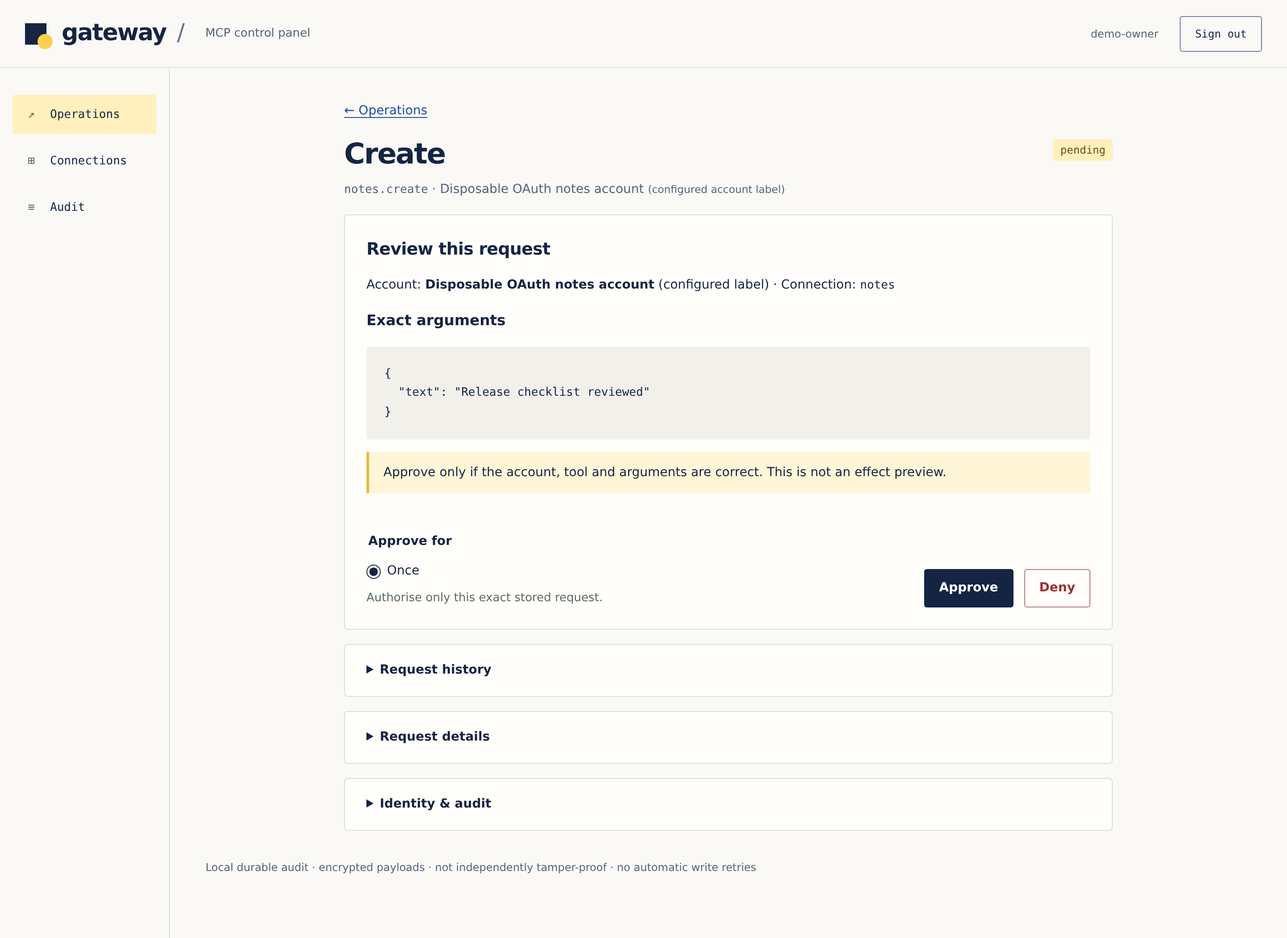
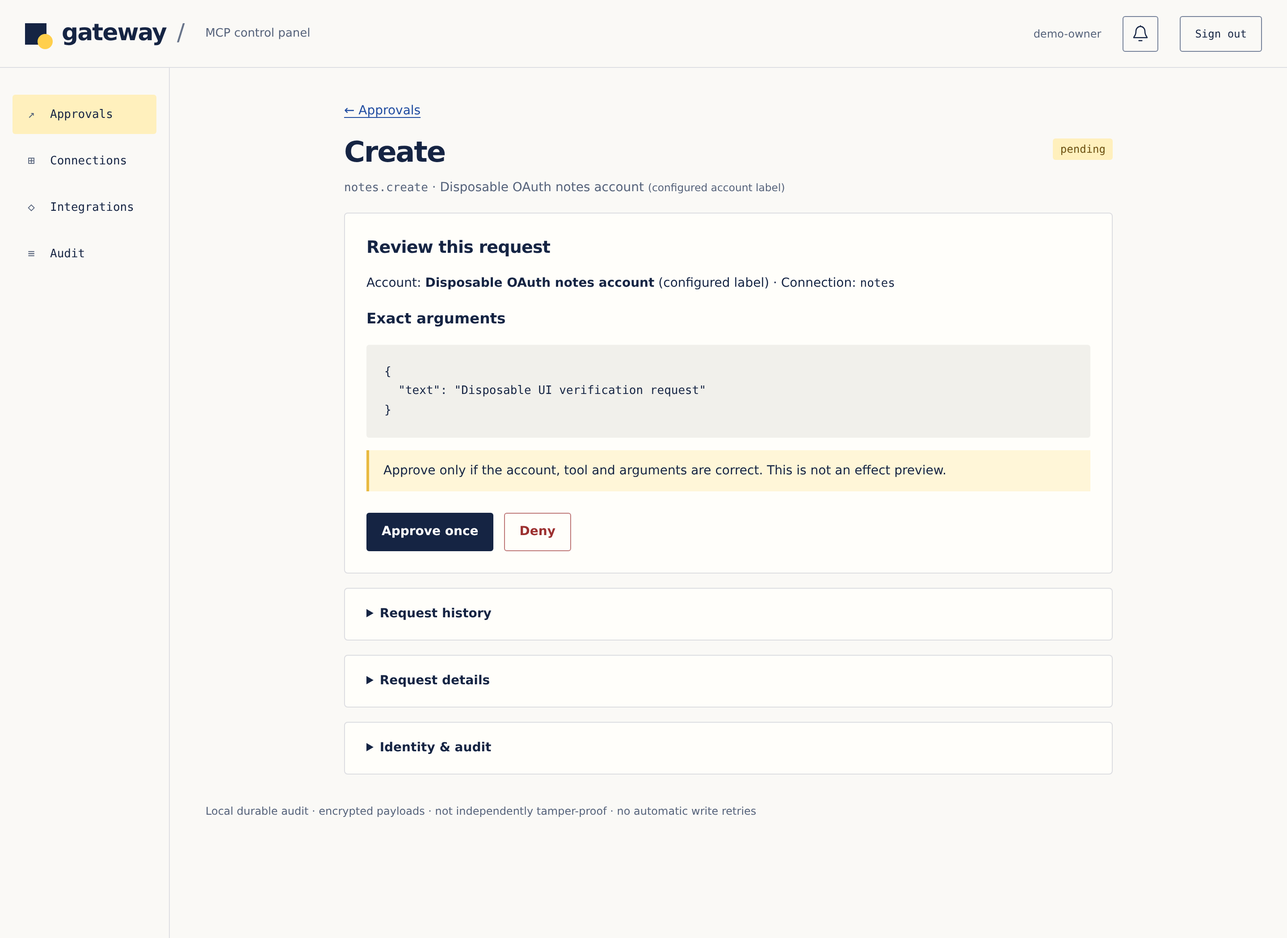
Make Audit the operation history (#59)
Rename the action-focused Operations area to Approvals and move completed and active request discovery to Audit. Add an all-time In progress filter and latest transition timestamps so queued and running work remains visible.

Amp-Thread-ID: https://ampcode.com/threads/T-01a0ff94-51a7-7188-b728-37bed6b5d05e

diff --git a/internal/gateway/audit.html b/internal/gateway/audit.html
@@ -6,11 +6,11 @@
       <label class="search">Search requests<input type="search" name="q" value="{{.Filter.Query}}" placeholder="Tool name or request ID" maxlength="256"></label>
       <label>Requested within<select name="period"><option value="24h" {{if eq .Period "24h"}}selected{{end}}>Last 24 hours</option><option value="7d" {{if eq .Period "7d"}}selected{{end}}>Last 7 days</option><option value="all" {{if eq .Period "all"}}selected{{end}}>All time</option></select></label>
       <label>Connection<input name="connection" list="audit-connections" value="{{.Filter.Connection}}" placeholder="All connections" maxlength="256"><datalist id="audit-connections">{{range .Connections}}<option value="{{.ID}}">{{.Account}}</option>{{end}}</datalist></label>
-      <label>Outcome<select name="outcome"><option value="">All outcomes</option>{{range $value := .Outcomes}}<option value="{{$value}}" {{if eq $.Filter.Outcome $value}}selected{{end}}>{{if eq $value "investigate"}}Needs investigation{{else}}{{status $value}}{{end}}</option>{{end}}</select></label>
+      <label>Outcome<select name="outcome"><option value="">All outcomes</option>{{range $value := .Outcomes}}<option value="{{$value}}" {{if eq $.Filter.Outcome $value}}selected{{end}}>{{if eq $value "active"}}In progress{{else if eq $value "investigate"}}Needs investigation{{else}}{{status $value}}{{end}}</option>{{end}}</select></label>
       <label>Timezone<select name="zone"><option value="Australia/Melbourne" {{if eq .Zone "Australia/Melbourne"}}selected{{end}}>Melbourne</option><option value="UTC" {{if eq .Zone "UTC"}}selected{{end}}>UTC</option></select></label>
       <button class="primary">Apply filters</button>
     </div>
-    <div class="filter-footer"><div class="chips" aria-label="Quick outcome filters"><button name="preset" value="all" aria-pressed="{{eq .Filter.Outcome ""}}">All</button><button name="preset" value="investigate" aria-pressed="{{eq .Filter.Outcome "investigate"}}">Needs investigation</button><button name="preset" value="denied" aria-pressed="{{eq .Filter.Outcome "denied"}}">Denied</button></div><a href="/audit">Clear filters</a></div>
+    <div class="filter-footer"><div class="chips" aria-label="Quick outcome filters"><button name="preset" value="all" aria-pressed="{{eq .Filter.Outcome ""}}">All</button><button name="preset" value="active" aria-pressed="{{eq .Filter.Outcome "active"}}">In progress</button><button name="preset" value="investigate" aria-pressed="{{eq .Filter.Outcome "investigate"}}">Needs investigation</button><button name="preset" value="denied" aria-pressed="{{eq .Filter.Outcome "denied"}}">Denied</button></div><a href="/audit">Clear filters</a></div>
   </form>
   <div id="audit-live" data-live hx-get="{{.Current}}" hx-trigger="live-update from:body queue:last">{{template "audit-requests" .}}</div>
   <p class="help live-error" role="alert" hidden></p>
@@ -20,11 +20,11 @@
 {{define "audit-requests"}}
   <div class="list-meta"><span>{{len .Requests}} requests on this page · newest requested first</span><span>{{.Zone}} · through <time datetime="{{iso .Filter.Until}}">{{stamp .Filter.Until .Zone}}</time></span></div>
   <section class="requests" aria-label="Request history">
-    <div class="columns" aria-hidden="true"><span></span><span>Requested</span><span>Tool / request</span><span>Connection / account</span><span class="requester">Requested by</span><span>Outcome</span></div>
+    <div class="columns" aria-hidden="true"><span></span><span>Requested / updated</span><span>Tool / request</span><span>Connection / account</span><span class="requester">Requested by</span><span>Outcome</span></div>
     {{range .Requests}}{{$op := .Operation}}
     <details class="audit-entry" data-request-id="{{$op.ID}}">
       <summary>
-        <span class="when"><time datetime="{{iso $op.Created}}">{{stamp $op.Created $.Zone}}</time></span>
+        <span class="when"><time datetime="{{iso $op.Created}}">{{stamp $op.Created $.Zone}}</time>{{with updated .Events}}<span class="secondary">Updated <time datetime="{{iso .}}">{{stamp . $.Zone}}</time></span>{{end}}</span>
         <span class="request-tool tool">{{$op.Tool}}<span class="secondary request-id" title="{{$op.ID}}">{{$op.ID}}</span></span>
         <span class="request-connection">{{$op.Connection}}<span class="secondary">{{$op.Account}}</span></span>
         <span class="requester">{{if $op.AmpUserID}}Amp caller<span class="secondary">Verified user</span>{{else}}{{actor $op.Subject $.Owner}}<span class="secondary">Token identity</span>{{end}}</span>

diff --git a/internal/gateway/page.go b/internal/gateway/page.go
@@ -30,11 +30,11 @@ var page = template.Must(template.New("page").Funcs(auditTemplateFuncs).Parse(au
 </div>{{end}}{{end}}
 {{define "operation-history"}}<details id="operation-history" class="card"><summary id="operation-history-summary">Request history</summary><div class="scroll"><table><thead><tr><th>Sequence</th><th>Transition</th><th>Actor</th></tr></thead><tbody>{{range .Events}}<tr><td>{{.Sequence}}</td><td>{{.Kind}}</td><td>{{.Actor}}</td></tr>{{else}}<tr><td colspan="3">No events yet.</td></tr>{{end}}</tbody></table></div></details>{{end}}
 <!doctype html>
-<html lang="en" class="dashboard"><head><meta charset="utf-8"><meta name="viewport" content="width=device-width,initial-scale=1"><meta name="htmx-config" content='{"historyCacheSize":0,"allowEval":false,"allowScriptTags":false,"selfRequestsOnly":true,"timeout":30000}'><script src="/assets/htmx-2.0.8.min.js" defer></script><script src="/assets/notifications.js" defer></script><script src="/assets/live.js" defer></script><title>Amp MCP Gateway · {{if .Operation}}Request review{{else if or .Connection .AddConnection .PolicyProposal (eq .Section "connections")}}Connections{{else if or .FlyIntegration (eq .Section "integrations")}}Integrations{{else if eq .Section "audit"}}Audit{{else}}Operations{{end}}</title><link rel="stylesheet" href="/assets/ui.css"></head><body><a class="skip" href="#main">Skip to content</a><header class="topbar"><a class="brand" href="/operations"><span class="brand-mark" aria-hidden="true"></span>gateway<span class="brand-slash" aria-hidden="true">/</span></a><span class="product-name">MCP control panel</span><small class="owner">{{.Owner}}</small>
+<html lang="en" class="dashboard"><head><meta charset="utf-8"><meta name="viewport" content="width=device-width,initial-scale=1"><meta name="htmx-config" content='{"historyCacheSize":0,"allowEval":false,"allowScriptTags":false,"selfRequestsOnly":true,"timeout":30000}'><script src="/assets/htmx-2.0.8.min.js" defer></script><script src="/assets/notifications.js" defer></script><script src="/assets/live.js" defer></script><title>Amp MCP Gateway · {{if .Operation}}Request review{{else if or .Connection .AddConnection .PolicyProposal (eq .Section "connections")}}Connections{{else if or .FlyIntegration (eq .Section "integrations")}}Integrations{{else if eq .Section "audit"}}Audit{{else}}Approvals{{end}}</title><link rel="stylesheet" href="/assets/ui.css"></head><body><a class="skip" href="#main">Skip to content</a><header class="topbar"><a class="brand" href="/operations"><span class="brand-mark" aria-hidden="true"></span>gateway<span class="brand-slash" aria-hidden="true">/</span></a><span class="product-name">MCP control panel</span><small class="owner">{{.Owner}}</small>
 <button id="notification-menu" class="notification-trigger" type="button" popovertarget="notification-panel" aria-label="Approval notifications" title="Approval notifications" hidden><svg viewBox="0 0 24 24" fill="none" stroke="currentColor" stroke-width="1.5" stroke-linecap="round" stroke-linejoin="round" aria-hidden="true"><path d="M18 8a6 6 0 0 0-12 0c0 7-3 7-3 9h18c0-2-3-2-3-9M10 21h4M12 2V1"/></svg></button>
 <section id="notification-panel" class="notification-panel" popover role="dialog" aria-labelledby="notification-heading" tabindex="-1" autofocus><h2 id="notification-heading">Approval notifications</h2><p id="notification-status" class="help" role="status"></p><button id="approval-notifications" type="button" aria-pressed="false" aria-describedby="notification-status">Enable notifications</button><p class="help notification-error" role="alert" hidden></p></section>
 <form method="post" action="/logout"><button>Sign out</button></form></header>
-<div class="shell"><aside class="sidebar"><nav aria-label="Main navigation"><a href="/operations" {{if or .Operation (eq .Section "operations") (eq .Section "approval-grants")}}aria-current="page"{{end}}><span class="nav-symbol" aria-hidden="true">↗</span>Operations</a><a href="/connections" {{if or .Connection .AddConnection .PolicyProposal (eq .Section "connections")}}aria-current="page"{{end}}><span class="nav-symbol" aria-hidden="true">⊞</span>Connections</a><a href="/integrations" {{if or .FlyIntegration (eq .Section "integrations")}}aria-current="page"{{end}}><span class="nav-symbol" aria-hidden="true">◇</span>Integrations</a><a href="/audit" {{if eq .Section "audit"}}aria-current="page"{{end}}><span class="nav-symbol" aria-hidden="true">≡</span>Audit</a></nav>
+<div class="shell"><aside class="sidebar"><nav aria-label="Main navigation"><a href="/operations" {{if or (and .Operation (eq .Operation.Status "pending")) (eq .Section "operations") (eq .Section "approval-grants")}}aria-current="page"{{end}}><span class="nav-symbol" aria-hidden="true">↗</span>Approvals</a><a href="/connections" {{if or .Connection .AddConnection .PolicyProposal (eq .Section "connections")}}aria-current="page"{{end}}><span class="nav-symbol" aria-hidden="true">⊞</span>Connections</a><a href="/integrations" {{if or .FlyIntegration (eq .Section "integrations")}}aria-current="page"{{end}}><span class="nav-symbol" aria-hidden="true">◇</span>Integrations</a><a href="/audit" {{if or (eq .Section "audit") (and .Operation (ne .Operation.Status "pending"))}}aria-current="page"{{end}}><span class="nav-symbol" aria-hidden="true">≡</span>Audit</a></nav>
 <div id="notification-feed" hidden hx-get="/notifications" hx-trigger="approval-update queue:last"></div>
 </aside><main id="main">
 {{if .FlyIntegration}}
@@ -196,7 +196,7 @@ var page = template.Must(template.New("page").Funcs(auditTemplateFuncs).Parse(au
 {{else}}
 {{if .Operation}}{{with .Operation}}
 <section class="operation">
-<a href="/operations">← Operations</a><div class="heading"><h1>{{$.Title}}</h1>{{if eq .Status "pending"}}<span class="badge {{.Status}}" role="status">{{.Status}}</span>{{end}}</div>
+{{if eq .Status "pending"}}<a href="/operations">← Approvals</a>{{else}}<a href="/audit">← Audit</a>{{end}}<div class="heading"><h1>{{$.Title}}</h1>{{if eq .Status "pending"}}<span class="badge {{.Status}}" role="status">{{.Status}}</span>{{end}}</div>
 <p class="sub"><code>{{.Tool}}</code> · {{.Account}} <small>(configured account label)</small></p>
 {{if .AmpThreadID}}<p class="attribution"><a href="https://ampcode.com/threads/{{.AmpThreadID}}">Open Amp thread ↗</a> · Amp identity verified. Not human approval or model attestation.</p>{{end}}
 {{if eq .Status "pending"}}<div class="card"><h2>Review this request</h2><p>Account: <strong>{{.Account}}</strong> (configured label) · Connection: <code>{{.Connection}}</code></p>
@@ -246,7 +246,7 @@ var page = template.Must(template.New("page").Funcs(auditTemplateFuncs).Parse(au
 {{template "connection-health" .}}
 <a class="button" href="/connections/{{.ID}}/tools">Manage tools</a></div>{{else}}<div class="empty"><h2>No connections yet</h2><p>Add a server, connect credentials, then review its tools.</p></div>{{end}}</div>
 {{else if eq .Section "audit"}}{{if .RawAudit}}<div class="heading"><h1>Raw audit events</h1><a href="/audit">← Request history</a></div><p class="sub">The latest 200 events, including configuration changes. Newest first · {{.Zone}}.</p><div id="audit-live" class="card scroll" data-live hx-get="{{.Current}}" hx-trigger="live-update from:body queue:last">{{template "audit-list" .}}</div><p class="help live-error" role="alert" hidden></p>{{else}}{{template "audit-history" .}}{{end}}
-{{else}}<h1>Operations</h1><p class="sub">Review requests, inspect results and manage standing approvals.</p><nav class="tabs" aria-label="Operation views"><a href="/operations" {{if and (ne .Section "approval-grants") (not .AllOperations)}}aria-current="page"{{end}}>Needs approval</a><a href="/operations?view=all" {{if .AllOperations}}aria-current="page"{{end}}>All operations</a><a href="/approval-grants" {{if eq .Section "approval-grants"}}aria-current="page"{{end}}>Standing approvals</a></nav>
+{{else}}<h1>Approvals</h1><p class="sub">Review requests and manage standing approvals.</p><nav class="tabs" aria-label="Approval views"><a href="/operations" {{if ne .Section "approval-grants"}}aria-current="page"{{end}}>Needs approval</a><a href="/approval-grants" {{if eq .Section "approval-grants"}}aria-current="page"{{end}}>Standing approvals</a></nav>
 {{if eq .Section "approval-grants"}}<h2>Standing approvals</h2><p class="sub">Saved approvals allow matching calls until they expire or you revoke them. Expiry or revocation stops queued calls, but cannot cancel directly approved requests or calls already running.</p>
 <div class="card scroll">{{if .ApprovalGrants}}<table class="approval-grants"><thead><tr><th>Allowed calls</th><th>Connection</th><th>Scope</th><th>Amp context</th><th>Expiry</th><th></th></tr></thead><tbody>
 {{range .ApprovalGrants}}<tr><td>{{if eq .Breadth "exact"}}Same tool + same arguments<br><code>{{.Tool}}</code><br><a href="/operations/{{.OperationID}}">View exact request</a>{{else if eq .Breadth "connection"}}All tools{{else}}Tool + any arguments<br><code>{{.Tool}}</code>{{end}}</td>
@@ -254,8 +254,8 @@ var page = template.Must(template.New("page").Funcs(auditTemplateFuncs).Parse(au
 <td>{{if eq .Scope "thread"}}<a href="https://ampcode.com/threads/{{.AmpThreadID}}">{{.AmpThreadID}}</a>{{else}}Project <code>{{.AmpProjectID}}</code>{{if .AmpWorkspaceID}}<br><small>Workspace <code>{{.AmpWorkspaceID}}</code></small>{{end}}{{end}}</td>
 <td>{{if eq .Expiry "never"}}Until revoked{{else}}{{.Expires.UTC.Format "2006-01-02 15:04:05 UTC"}}{{end}}</td><td><form method="post" action="/approval-grants/{{.ID}}/revoke"><button class="danger">Revoke</button></form></td></tr>{{end}}
 </tbody></table>{{else}}<p class="sub">No standing approvals. Approvals you remember during request review appear here.</p>{{end}}</div>
-{{else}}<div id="operations-live" class="card scroll" data-live hx-get="/operations{{if .AllOperations}}?view=all{{end}}" hx-trigger="live-update from:body queue:last">{{template "operations-list" .}}</div><p class="help live-error" role="alert" hidden></p>{{end}}{{end}}
+{{else}}<div id="operations-live" class="card scroll" data-live hx-get="/operations" hx-trigger="live-update from:body queue:last">{{template "operations-list" .}}</div><p class="help live-error" role="alert" hidden></p>{{end}}{{end}}
 {{end}}<footer>Local durable audit · encrypted payloads · not independently tamper-proof · no automatic write retries</footer></main></div>
 </body></html>
 {{- define "audit-list"}}<table class="audit-list"><thead><tr><th>Time</th><th>Sequence</th><th>Operation</th><th>Transition</th><th>Actor</th></tr></thead><tbody>{{range .Events}}<tr><td><time datetime="{{iso .Time}}">{{stamp .Time $.Zone}}</time></td><td>{{.Sequence}}</td><td>{{if .Operation}}<a href="/operations/{{.Operation}}">{{.Operation}}</a>{{else}}—{{end}}</td><td>{{.Kind}}</td><td>{{.Actor}}</td></tr>{{else}}<tr><td colspan="5">No events yet.</td></tr>{{end}}</tbody></table>{{end}}
-{{- define "operations-list"}}{{if .Operations}}<table class="operation-list"><thead><tr><th>Request</th><th>Account</th><th>Status</th><th></th></tr></thead><tbody>{{range .Operations}}<tr><td><strong>{{.Tool}}</strong><span class="request-id">{{.ID}}</span></td><td>{{.Account}}</td><td><span class="badge {{.Status}}">{{.Status}}</span></td><td><a href="/operations/{{.ID}}">{{if eq .Status "pending"}}Review{{else}}View{{end}}<span class="visually-hidden"> {{.ID}}</span> →</a></td></tr>{{end}}</tbody></table><p class="help">Showing up to 100 most recent {{if not .AllOperations}}pending {{end}}requests.</p>{{else}}<div class="empty"><h2>{{if .AllOperations}}No operations yet{{else}}Nothing needs your approval{{end}}</h2><p>{{if .AllOperations}}Connect an MCP client and use find_tools, then call_tools.{{else}}New requests that require approval will appear here.{{end}}</p></div>{{end}}{{end}}`))
+{{- define "operations-list"}}{{if .Operations}}<table class="operation-list"><thead><tr><th>Request</th><th>Account</th><th>Status</th><th></th></tr></thead><tbody>{{range .Operations}}<tr><td><strong>{{.Tool}}</strong><span class="request-id">{{.ID}}</span></td><td>{{.Account}}</td><td><span class="badge {{.Status}}">{{.Status}}</span></td><td><a href="/operations/{{.ID}}">Review<span class="visually-hidden"> {{.ID}}</span> →</a></td></tr>{{end}}</tbody></table><p class="help">Showing up to 100 most recent pending requests.</p>{{else}}<div class="empty"><h2>Nothing needs your approval</h2><p>New requests that require approval will appear here.</p></div>{{end}}{{end}}`))

diff --git a/internal/browserbridge/browserbridge.go b/internal/browserbridge/browserbridge.go
@@ -576,7 +576,7 @@ func (m *Manager) render(w http.ResponseWriter, data browserPageData) {
 }
 
 var browserPage = template.Must(template.New("browser").Parse(`<!doctype html>
-<html lang="en" class="chrome"><head><meta charset="utf-8"><meta name="viewport" content="width=device-width,initial-scale=1"><title>Amp MCP Gateway · Chrome</title><link rel="stylesheet" href="/assets/ui.css"></head><body><a class="skip" href="#main">Skip to content</a><header class="topbar"><a class="brand" href="/operations"><span class="brand-mark" aria-hidden="true"></span>gateway<span class="brand-slash" aria-hidden="true">/</span></a><span class="product-name">MCP control panel</span><form method="post" action="/logout"><button>Sign out</button></form></header><div class="shell"><aside class="sidebar"><nav aria-label="Main navigation"><a href="/operations"><span class="nav-symbol" aria-hidden="true">↗</span>Operations</a><a href="/connections"><span class="nav-symbol" aria-hidden="true">⊞</span>Connections</a><a href="/integrations" aria-current="page"><span class="nav-symbol" aria-hidden="true">◇</span>Integrations</a><a href="/audit"><span class="nav-symbol" aria-hidden="true">≡</span>Audit</a></nav></aside><main id="main"><a href="/integrations">← Integrations</a><h1>Chrome</h1><p class="sub">Pair one explicitly selected tab with the gateway. The extension connects outbound, and you can disconnect it here at any time.</p>
+<html lang="en" class="chrome"><head><meta charset="utf-8"><meta name="viewport" content="width=device-width,initial-scale=1"><title>Amp MCP Gateway · Chrome</title><link rel="stylesheet" href="/assets/ui.css"></head><body><a class="skip" href="#main">Skip to content</a><header class="topbar"><a class="brand" href="/operations"><span class="brand-mark" aria-hidden="true"></span>gateway<span class="brand-slash" aria-hidden="true">/</span></a><span class="product-name">MCP control panel</span><form method="post" action="/logout"><button>Sign out</button></form></header><div class="shell"><aside class="sidebar"><nav aria-label="Main navigation"><a href="/operations"><span class="nav-symbol" aria-hidden="true">↗</span>Approvals</a><a href="/connections"><span class="nav-symbol" aria-hidden="true">⊞</span>Connections</a><a href="/integrations" aria-current="page"><span class="nav-symbol" aria-hidden="true">◇</span>Integrations</a><a href="/audit"><span class="nav-symbol" aria-hidden="true">≡</span>Audit</a></nav></aside><main id="main"><a href="/integrations">← Integrations</a><h1>Chrome</h1><p class="sub">Pair one explicitly selected tab with the gateway. The extension connects outbound, and you can disconnect it here at any time.</p>
 {{if .PairingCode}}<div class="card"><h2>Pair the extension</h2><strong>Gateway URL</strong><code class="code">{{.GatewayURL}}</code><strong>Pairing code for {{.PairingConnection}}</strong><code class="code">{{.PairingCode}}</code><p class="sub">Paste both values into the extension. The code expires in ten minutes if unused and is shown only on this page.</p></div>{{end}}
 {{if .Error}}<p role="alert">{{.Error}}</p>{{end}}{{range .Connections}}<div class="card" data-browser-connection="{{.ID}}" data-browser-state="{{if .Connected}}connected{{else if .Paired}}offline{{else}}not-paired{{end}}"><div class="row"><div><strong>{{.Account}}</strong><p><code>{{.ID}}</code> · {{if .Connected}}<span class="badge connected">connected</span>{{else if .Paired}}<span class="badge">offline</span>{{else}}<span class="badge">not paired</span>{{end}}</p>{{if .TabTitle}}<p class="sub">{{.TabTitle}}<br><span class="url">{{.TabURL}}</span></p>{{end}}</div>{{if or .Paired .Connected}}<form method="post" action="/integrations/chrome/revoke"><input type="hidden" name="connection" value="{{.ID}}"><button class="danger">Disconnect</button></form>{{else}}<form method="post" action="/integrations/chrome/pair"><input type="hidden" name="connection" value="{{.ID}}"><button>Create pairing code</button></form>{{end}}</div></div>{{else}}<div class="card"><h2>Enable Chrome</h2><p class="sub">Add the governed browser tools to this gateway. Viewing is allowed directly; click, type and navigation require approval.</p><form method="post" action="/integrations/chrome/enable"><button>Enable Chrome</button></form></div>{{end}}
 <footer>One explicitly selected HTTP(S) tab · outbound extension connection · revocable at any time</footer></main></div><script>

diff --git a/internal/gateway/pages_test.go b/internal/gateway/pages_test.go
@@ -17,7 +17,6 @@ func TestFocusedPages(t *testing.T) {
 	h, cookie := adminUI(t, g, m)
 	for _, tc := range []struct{ path, want, absent string }{
 		{"/operations", "Nothing needs your approval", "Add MCP"},
-		{"/operations?view=all", "No operations yet", "Add MCP"},
 		{"/integrations", "Fly.io", "Nothing needs your approval"},
 		{"/integrations/fly", "Connect Fly.io", "Nothing needs your approval"},
 		{"/connections", "Add MCP", "Nothing needs your approval"},
@@ -42,6 +41,9 @@ func TestFocusedPages(t *testing.T) {
 	if w := formRequest(h, cookie, "GET", "/", nil); w.Code != 303 || w.Header().Get("Location") != "/operations" {
 		t.Fatal("home did not redirect to operations")
 	}
+	if w := formRequest(h, cookie, "GET", "/operations?view=all", nil); w.Code != 303 || w.Header().Get("Location") != "/audit" {
+		t.Fatal("retired all-operations view did not redirect to audit")
+	}
 	if w := formRequest(h, cookie, "GET", "/connections/missing/settings", nil); w.Code != 404 {
 		t.Fatal("missing connection did not return 404")
 	}
@@ -65,12 +67,11 @@ func TestFocusedPages(t *testing.T) {
 		t.Fatal("could not deny request")
 	}
 	pending := formRequest(h, cookie, "GET", "/operations", nil).Body.String()
-	all := formRequest(h, cookie, "GET", "/operations?view=all", nil).Body.String()
-	if strings.Contains(pending, first.ID) || !strings.Contains(pending, second.ID) || !strings.Contains(all, first.ID) || strings.Contains(all, "private-argument") {
-		t.Fatal("operation views did not filter or exposed payloads")
+	if strings.Contains(pending, first.ID) || !strings.Contains(pending, second.ID) || strings.Contains(pending, "All operations") || strings.Contains(pending, "private-argument") {
+		t.Fatal("approvals view did not filter or exposed payloads")
 	}
 	review := formRequest(h, cookie, "GET", "/operations/"+first.ID, nil).Body.String()
-	if !strings.Contains(review, `href="/operations/`+second.ID+`">Review next request`) || !strings.Contains(review, "Request history") || !strings.Contains(review, "<td>denied</td>") {
+	if !strings.Contains(review, `href="/operations/`+second.ID+`">Review next request`) || !strings.Contains(review, `href="/audit" aria-current="page"`) || !strings.Contains(review, `href="/audit">← Audit`) || !strings.Contains(review, "Request history") || !strings.Contains(review, "<td>denied</td>") {
 		t.Fatal("review lost the next request or request history")
 	}
 	if strings.Count(review, "<td>pending</td>") != 1 {
@@ -83,6 +84,9 @@ func TestFocusedPages(t *testing.T) {
 		t.Fatal(err)
 	}
 	rememberReview := formRequest(h, cookie, "GET", "/operations/"+remembered.ID, nil).Body.String()
+	if !strings.Contains(rememberReview, `href="/operations" aria-current="page"`) || !strings.Contains(rememberReview, `href="/operations">← Approvals`) {
+		t.Fatal("pending request did not return to approvals")
+	}
 	for _, want := range []string{`name="remember" value="on"`, `name="breadth"`, `value="exact"`, `value="tool"`, `value="connection"`, `name="scope"`, `value="thread"`, `value="project"`, `name="expiry"`, `value="never"`, `value="1h"`, `value="24h"`, "Same tool + same arguments", "This thread", "Until revoked", "Approve & remember"} {
 		if !strings.Contains(rememberReview, want) {
 			t.Fatalf("remember approval review missing %q", want)

diff --git a/internal/gateway/audit.go b/internal/gateway/audit.go
@@ -22,7 +22,13 @@ var auditTemplateFuncs = template.FuncMap{
 		loc, _ := time.LoadLocation(zone) // Validated before rendering.
 		return time.Unix(epoch, 0).In(loc).Format("02 Jan 2006 · 15:04:05 MST")
 	},
-	"iso":    func(epoch int64) string { return time.Unix(epoch, 0).UTC().Format(time.RFC3339) },
+	"iso": func(epoch int64) string { return time.Unix(epoch, 0).UTC().Format(time.RFC3339) },
+	"updated": func(events []store.Event) int64 {
+		if len(events) == 0 {
+			return 0
+		}
+		return events[len(events)-1].Time
+	},
 	"status": auditStatus,
 	"event":  auditEvent,
 	"actor": func(actor, owner string) string {
@@ -144,6 +150,9 @@ func (g *Gateway) audit(w http.ResponseWriter, r *http.Request) {
 	if period == "" {
 		period = "24h"
 	}
+	if f.Outcome == "active" {
+		period = "all"
+	}
 	if zone == "" {
 		zone = "Australia/Melbourne"
 	}
@@ -181,7 +190,7 @@ func (g *Gateway) audit(w http.ResponseWriter, r *http.Request) {
 		return
 	}
 	switch f.Outcome {
-	case "", "investigate", "pending", "ready", "running", "succeeded", "failed", "unknown", "denied", "expired":
+	case "", "active", "investigate", "pending", "ready", "running", "succeeded", "failed", "unknown", "denied", "expired":
 	default:
 		bad()
 		return
@@ -221,7 +230,7 @@ func (g *Gateway) audit(w http.ResponseWriter, r *http.Request) {
 		"Section":  "audit",
 		"Requests": requests, "Filter": f, "Period": period, "Zone": zone,
 		"Owner": g.cfg.OwnerSubject, "Connections": connections,
-		"Outcomes": []string{"investigate", "pending", "ready", "running", "succeeded", "failed", "unknown", "denied", "expired"},
+		"Outcomes": []string{"active", "investigate", "pending", "ready", "running", "succeeded", "failed", "unknown", "denied", "expired"},
 		"Older":    older, "Latest": latest,
 	})
 }

diff --git a/internal/gateway/live_test.go b/internal/gateway/live_test.go
@@ -74,23 +74,17 @@ func TestLiveOperationsList(t *testing.T) {
 	if err := s.Decide(t.Context(), "rejected-request", "owner", false); err != nil {
 		t.Fatal(err)
 	}
-	for _, all := range []bool{false, true} {
-		path := "/operations"
-		if all {
-			path += "?view=all"
-		}
-		r := httptest.NewRequest("GET", path, nil)
-		r.Header.Set("HX-Request", "true")
-		r.AddCookie(cookie)
-		w := httptest.NewRecorder()
-		h.ServeHTTP(w, r)
-		body := w.Body.String()
-		if w.Code != 200 || !strings.Contains(body, "waiting") || strings.Contains(body, "rejected") != all || strings.Contains(body, "private-argument") || strings.Contains(body, "<html") {
-			t.Fatalf("incorrect operations fragment: %d %s", w.Code, body)
-		}
-		if w.Header().Get("Cache-Control") != "no-store" || w.Header().Get("Vary") != "HX-Request" {
-			t.Fatal("list fragment must not be cached")
-		}
+	r := httptest.NewRequest("GET", "/operations", nil)
+	r.Header.Set("HX-Request", "true")
+	r.AddCookie(cookie)
+	w := httptest.NewRecorder()
+	h.ServeHTTP(w, r)
+	body := w.Body.String()
+	if w.Code != 200 || !strings.Contains(body, "waiting") || strings.Contains(body, "rejected") || strings.Contains(body, "private-argument") || strings.Contains(body, "<html") {
+		t.Fatalf("incorrect approvals fragment: %d %s", w.Code, body)
+	}
+	if w.Header().Get("Cache-Control") != "no-store" || w.Header().Get("Vary") != "HX-Request" {
+		t.Fatal("list fragment must not be cached")
 	}
 }
 

diff --git a/internal/gateway/audit_test.go b/internal/gateway/audit_test.go
@@ -82,6 +82,28 @@ func TestAuditHistoryRenderingAndFilters(t *testing.T) {
 	}
 }
 
+func TestAuditInProgressIncludesOlderQueuedAndRunningRequests(t *testing.T) {
+	g, s, _ := fixture(t)
+	created := time.Now().Add(-48 * time.Hour).Unix()
+	for _, status := range []string{"ready", "running", "succeeded"} {
+		o := store.Operation{ID: "old-" + status, Tool: "notes.write", Connection: "notes", Status: status, Created: created}
+		if _, err := s.Submit(t.Context(), o); err != nil {
+			t.Fatal(err)
+		}
+	}
+	w := httptest.NewRecorder()
+	g.audit(w, httptest.NewRequest("GET", "/audit?preset=active", nil))
+	body := w.Body.String()
+	if w.Code != 200 || !strings.Contains(body, "old-ready") || !strings.Contains(body, "old-running") || strings.Contains(body, "old-succeeded") {
+		t.Fatalf("in-progress filter did not select all-time active requests: %d %s", w.Code, body)
+	}
+	for _, want := range []string{`value="all" selected`, `value="active" selected`, `aria-pressed="true">In progress`, "Updated <time"} {
+		if !strings.Contains(body, want) {
+			t.Fatalf("in-progress view missing %q", want)
+		}
+	}
+}
+
 func TestAuditPaginationPreservesFiltersAndTimeWindow(t *testing.T) {
 	g, s, _ := fixture(t)
 	now := time.Now().Unix()

diff --git a/internal/store/audit_test.go b/internal/store/audit_test.go
@@ -12,6 +12,8 @@ func TestAuditFiltersPaginationAndTimeline(t *testing.T) {
 		o := operation(fmt.Sprintf("request-%02d", i), "succeeded")
 		if i == 57 {
 			o.Status = "pending"
+		} else if i == 58 {
+			o.Status = "running"
 		}
 		o.Created = 1000 + int64(i/2) // Exercise cursor ties.
 		o.Connection, o.Account = "notes", "Notes account"
@@ -59,6 +61,10 @@ func TestAuditFiltersPaginationAndTimeline(t *testing.T) {
 		if len(got) != 1 || got[0].Operation.ID != tc.want || len(got[0].Events) != 2 || got[0].Events[0].Kind != "pending" || got[0].Events[1].Actor != "human" {
 			t.Fatalf("filtered timeline: %+v", got)
 		}
+	}
+	active, _, err := s.Audit(t.Context(), AuditFilter{Outcome: "active", Query: "request-58"})
+	if err != nil || len(active) != 1 || active[0].Operation.ID != "request-58" {
+		t.Fatalf("active filter: %+v %v", active, err)
 	}
 	// Unfiltered pagination must not skip requests sharing a timestamp.
 	all, more, err := s.Audit(t.Context(), AuditFilter{})

diff --git a/internal/gateway/gateway.go b/internal/gateway/gateway.go
@@ -621,12 +621,11 @@ func (g *Gateway) dashboard(w http.ResponseWriter, r *http.Request, m *upstream.
 	var err error
 	switch r.URL.Path {
 	case "/operations":
-		status := "pending"
 		if r.URL.Query().Get("view") == "all" {
-			status = ""
+			http.Redirect(w, r, "/audit", http.StatusSeeOther)
+			return
 		}
-		data["AllOperations"] = status == ""
-		data["Operations"], err = g.store.ListStatus(r.Context(), status)
+		data["Operations"], err = g.store.ListStatus(r.Context(), "pending")
 	case "/approval-grants":
 		data["ApprovalGrants"], err = g.store.ApprovalGrants(r.Context())
 	case "/connections":

diff --git a/internal/store/audit.go b/internal/store/audit.go
@@ -46,6 +46,8 @@ LEFT JOIN operation_summaries s ON s.id=o.id WHERE o.created>=?`
 	}
 	if f.Outcome == "investigate" {
 		query += " AND status IN ('failed','unknown')"
+	} else if f.Outcome == "active" {
+		query += " AND status IN ('ready','running')"
 	} else if f.Outcome != "" {
 		query += " AND status=?"
 		args = append(args, f.Outcome)

diff --git a/README.md b/README.md
@@ -80,7 +80,7 @@ also offer **Remember this approval**. A saved approval can match the exact call
 the tool with any arguments, or every non-blocked tool on the connection; it can be
 limited to the thread or, when verified, its project. It lasts until revoked unless
 you choose the one-hour or 24-hour preset. Manage saved approvals under
-**Operations → Standing approvals**. Expiry or revocation stops queued
+**Approvals → Standing approvals**. Expiry or revocation stops queued
 grant-authorized calls, not directly approved or already running calls. The request
 and its outcome are saved, so the agent can check back later without keeping the
 connection open.
@@ -99,15 +99,16 @@ Finished calls show the result first, with JSON formatted for reading. Expand
 
 ![Reviewing a demo request before approving it](docs/images/approval.png)
 
-**Operations** opens to **Needs approval**. Switch to **All operations** to see
-recent outcomes. Each request includes its history and, after a decision, a link
-to the next pending request. **Audit** groups events by request, with expandable
-timelines and filters for tool name or request ID, connection, outcome and time
-range. **Needs investigation** finds failed or unconfirmed outcomes. Browse older
-requests in pages of 25, or open **Raw events** for the latest 200 ledger events,
-including configuration changes. Arguments and results stay in request details.
+**Approvals** opens to **Needs approval** and also manages **Standing approvals**.
+Each request includes its history and, after a decision, a link to the next pending
+request. **Audit** contains all requests and outcomes, with expandable timelines
+and filters for tool name or request ID, connection, outcome and time range. **In
+progress** finds queued or running requests regardless of age; **Needs
+investigation** finds failed or unconfirmed outcomes. Browse older requests in
+pages of 25, or open **Raw events** for the latest 200 ledger events, including
+configuration changes. Arguments and results stay in request details.
 
-Operations and Audit update through an owner-authenticated SSE connection. The
+Approvals and Audit update through an owner-authenticated SSE connection. The
 server checks the committed audit sequence every 250 ms and sends a payload-free
 notification when it changes; htmx then fetches the current HTML. Active execution
 pages stop listening when the call finishes unless desktop alerts are enabled.
@@ -144,7 +145,7 @@ Native forms and page refresh still work without JavaScript. Approval, OAuth and
 Chrome pairing remain full-page flows; live updates never resubmit those actions.
 No page content is stored in htmx's browser history cache.
 
-![Recent demo operations](docs/images/dashboard.png)
+![Recent demo request history in Audit](docs/images/dashboard.png)
 
 ## Review a call inside Amp
 

diff --git a/docs/dev.md b/docs/dev.md
@@ -747,12 +747,13 @@ before restart recovery; original operation ciphertext is preserved. Subsequent
 startups inspect only the small summaries. Back up large ledgers before upgrading
 and allow time for this one-time migration.
 
-Audit filters request creation time and current outcome, not event time. Each
-page reads summaries and timelines in one transaction. Pagination fixes the
-creation-time window and uses creation time plus request ID as a cursor; outcomes
-can still change between pages. Tool and connection matching scans encrypted
-summaries rather than indexing plaintext metadata. The raw-events view retains
-global events that do not belong to a request.
+Audit filters request creation time and current outcome, not event time. The **In
+progress** outcome groups queued and running requests and searches all time so
+older active work remains discoverable. Each page reads summaries and timelines
+in one transaction. Pagination fixes the creation-time window and uses creation
+time plus request ID as a cursor; outcomes can still change between pages. Tool
+and connection matching scans encrypted summaries rather than indexing plaintext
+metadata. The raw-events view retains global events that do not belong to a request.
 
 ## Connect real services deliberately
 
@@ -787,7 +788,7 @@ the encryption key separately. Losing the key loses the encrypted data. Changing
 the key is not a supported rotation procedure. Changing `AmpUserID` revokes the old
 user on restart and invalidates queued operations. Changing identity configuration
 also invalidates queued approvals; drain work before updating it. Standing thread
-and project approvals can be revoked under **Operations → Standing approvals**, but there is no Amp
+and project approvals can be revoked under **Approvals → Standing approvals**, but there is no Amp
 token introspection or way to stop a thread from submitting new pending requests.
 Legacy standing approvals expire one hour after their original creation, without
 an upgrade grace period; new approvals may explicitly have no expiry. Older queued
